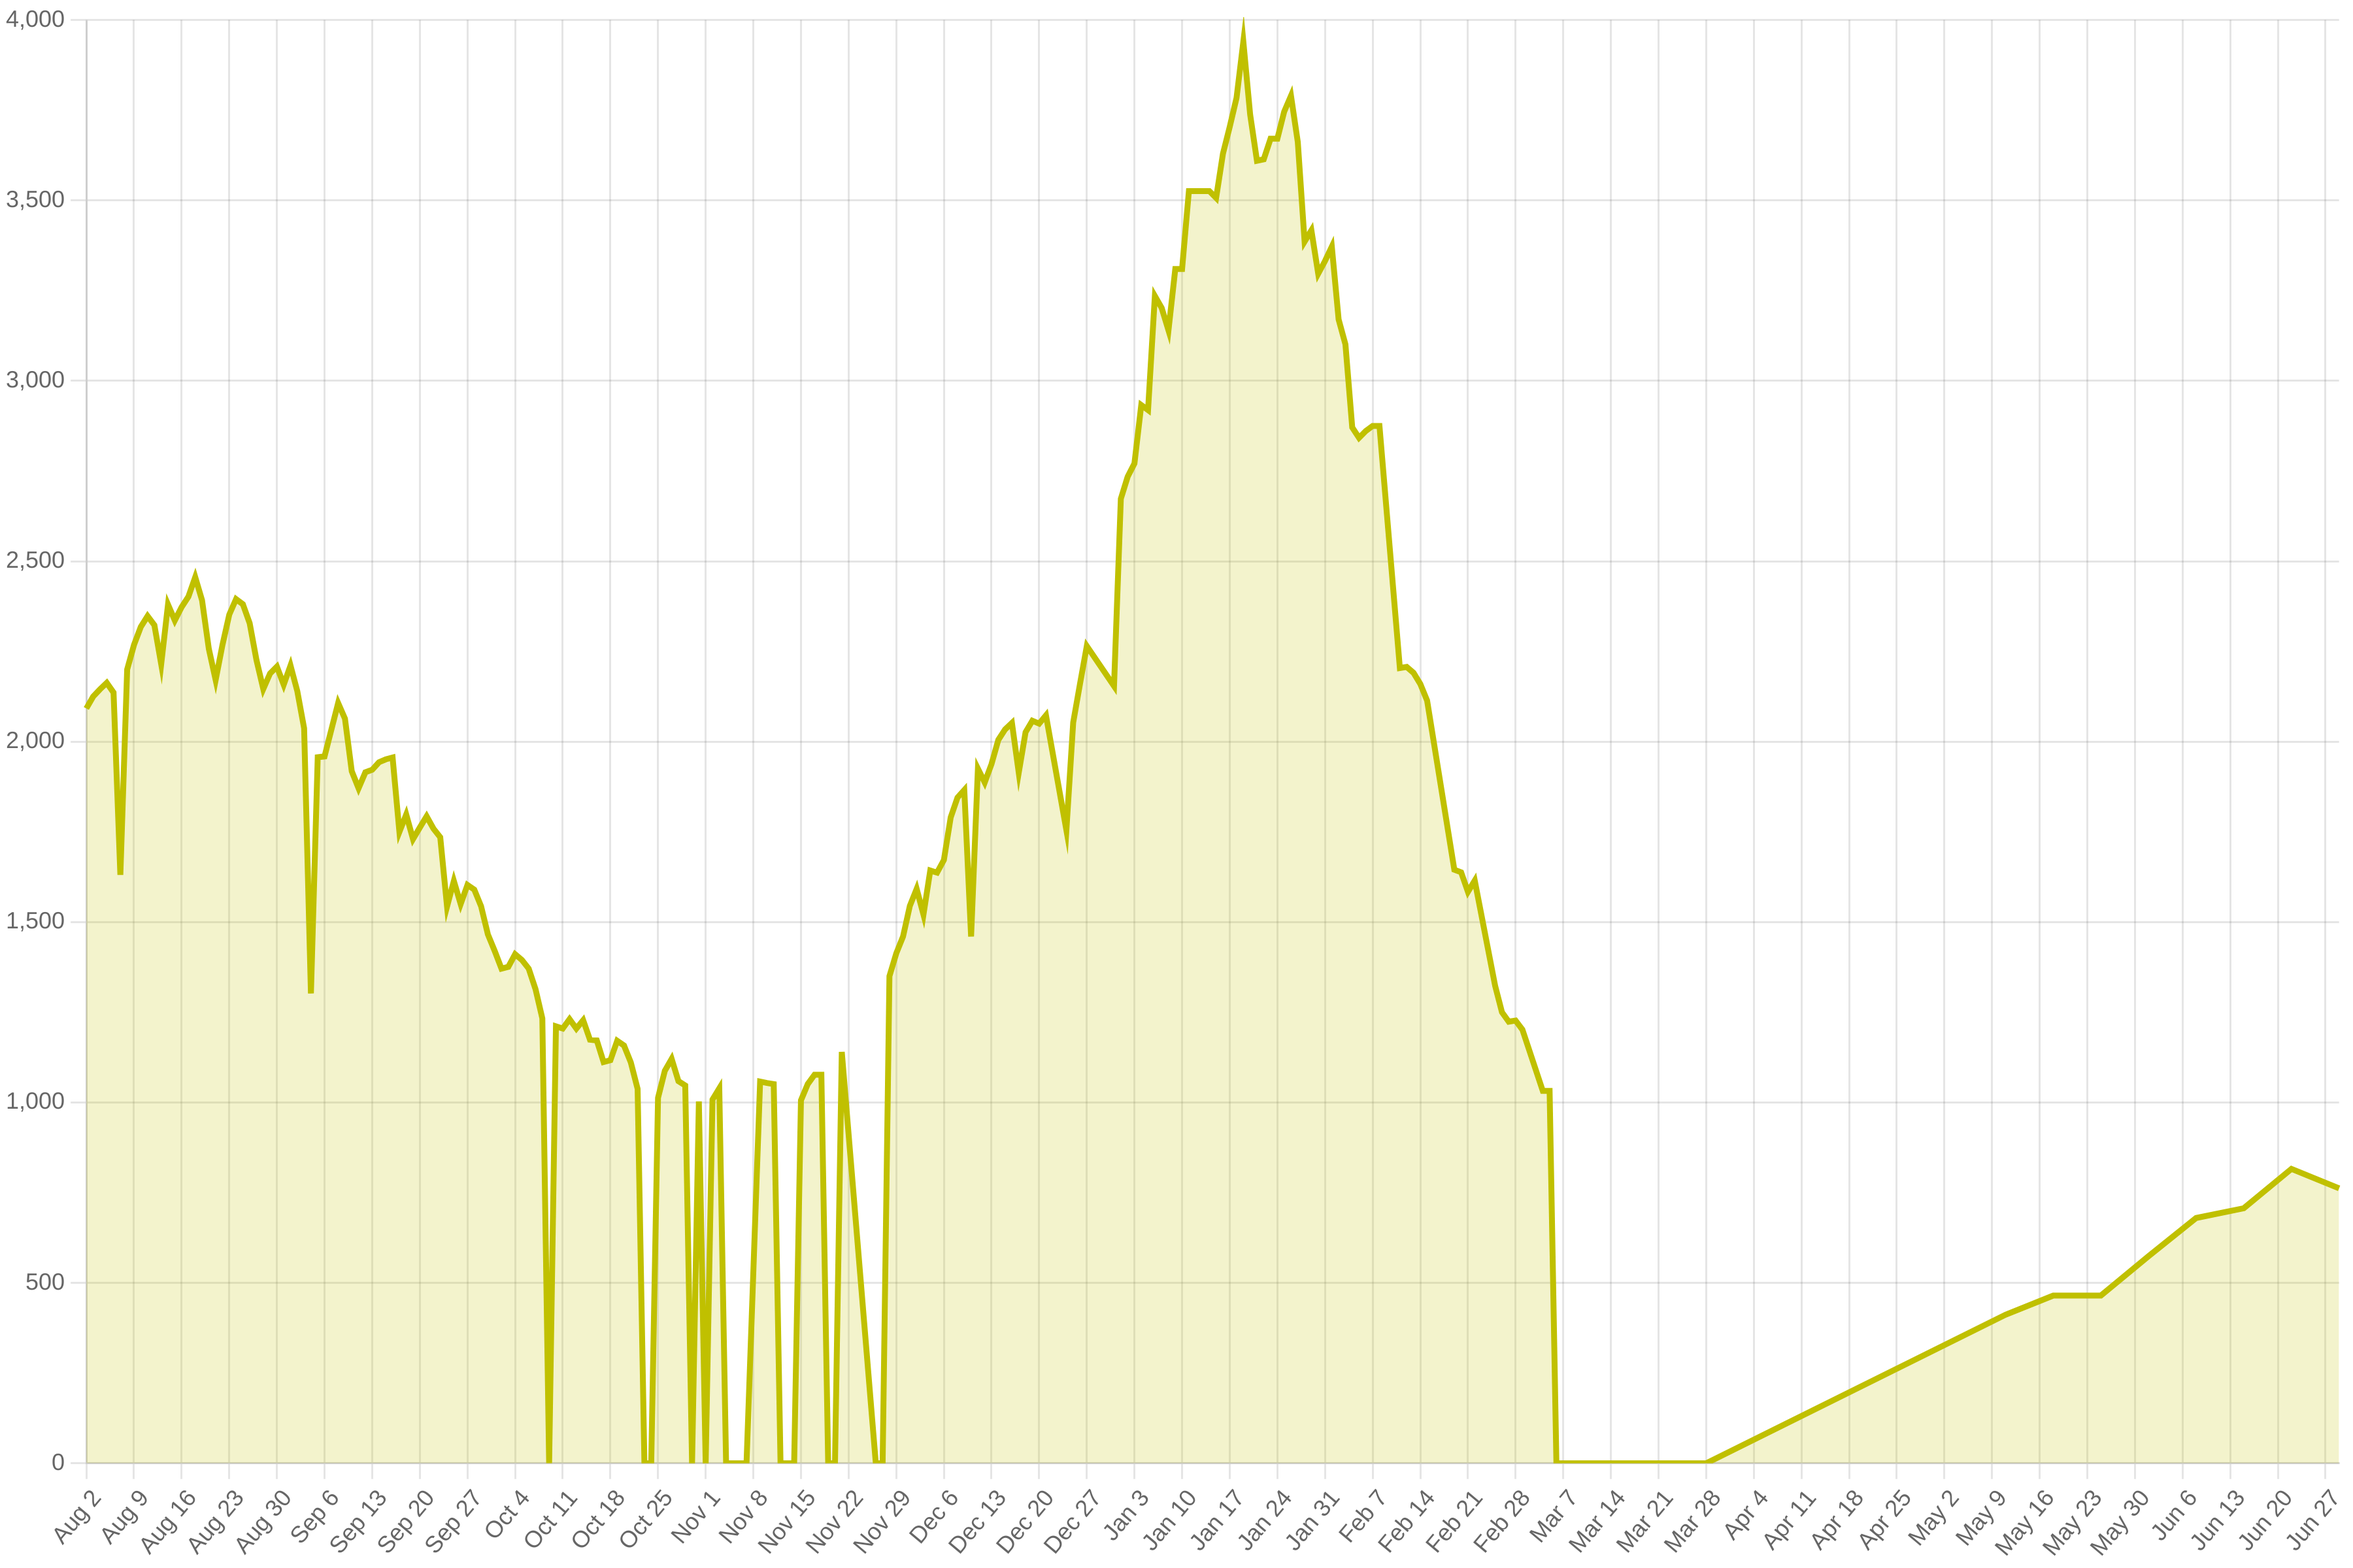
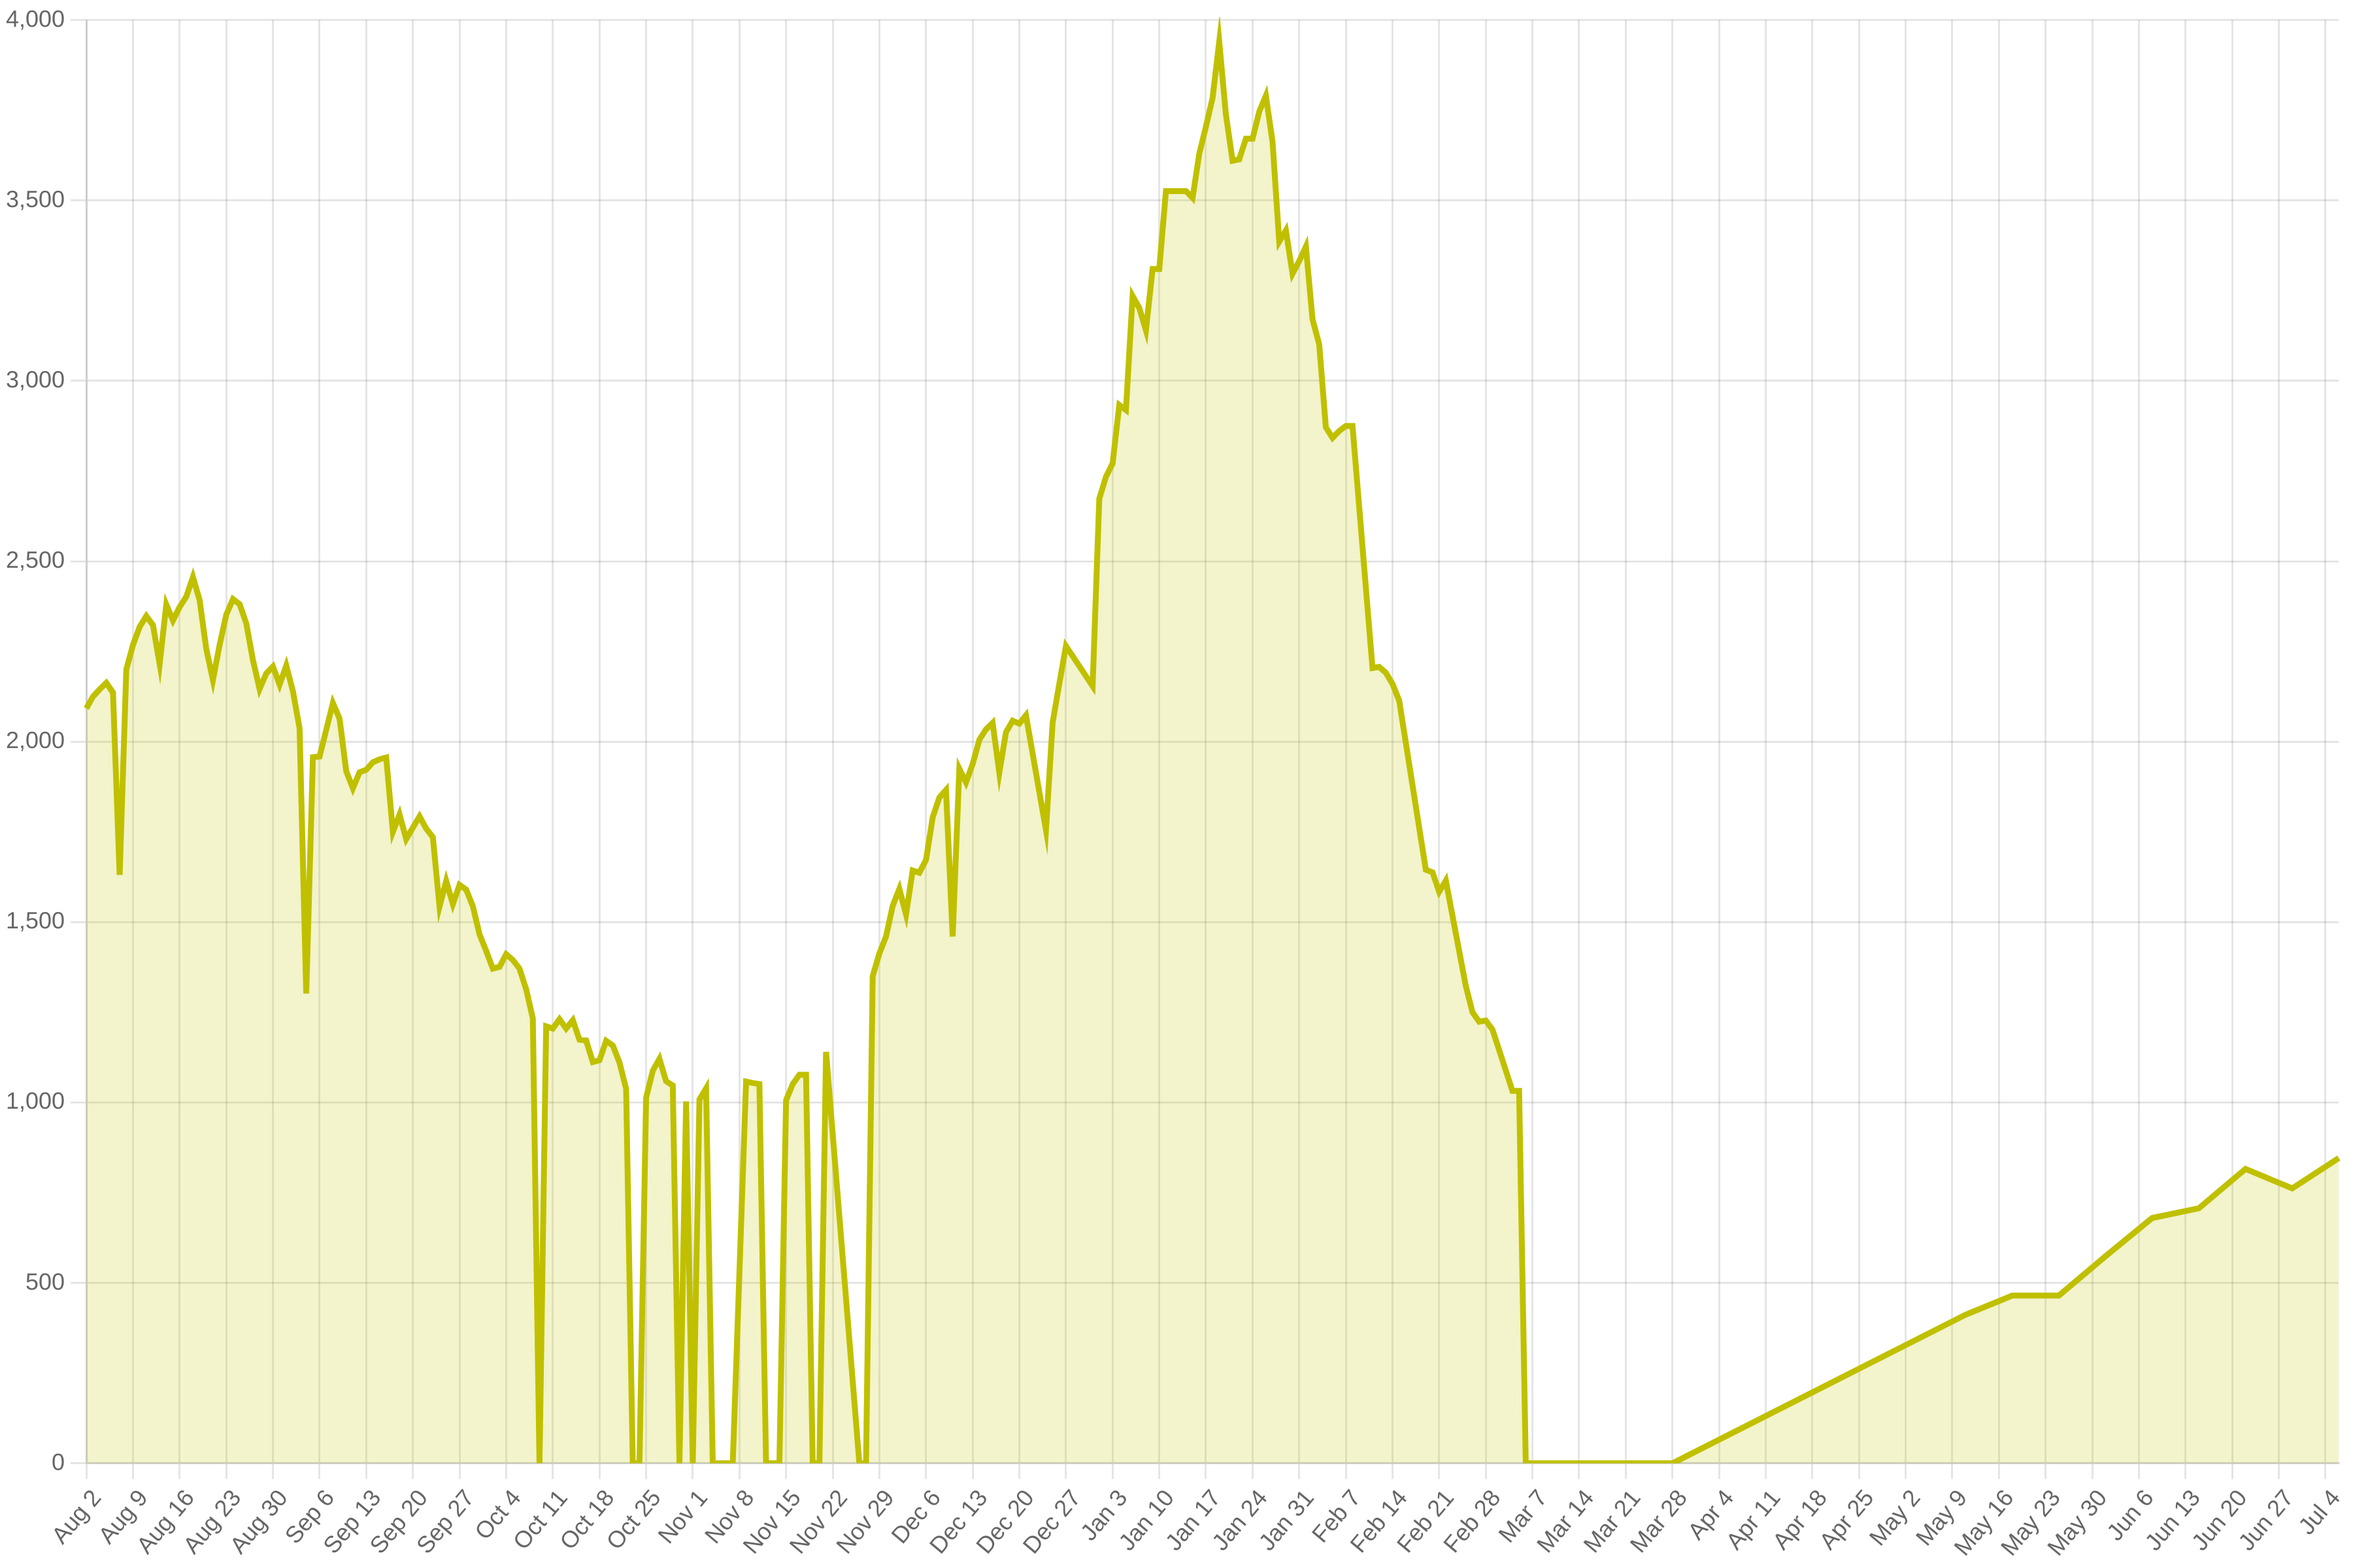
regular update

Changed region(s): [[0.0622, 0.0, 0.9956, 1.0], [0.0622, 0.0312, 0.1244, 0.4375], [0.9644, 0.9375, 0.9956, 0.9688]]

diff --git a/docs/index.html b/docs/index.html
@@ -43,10 +43,10 @@
     <main>
       <h1>Missouri COVID data</h1>
       <p>
-        The data on this page was updated <strong>Friday, July 1, 2022</strong>. For
+        The data on this page was updated <strong>Friday, July 8, 2022</strong>. For
         the values that are averages over 7 days, the start date is
-        <strong>Thursday, June 23, 2022</strong> and the end date is
-        <strong>Wednesday, June 29, 2022</strong>. The original data comes from the
+        <strong>Thursday, June 30, 2022</strong> and the end date is
+        <strong>Wednesday, July 6, 2022</strong>. The original data comes from the
         <a
           href="https://results.mo.gov/t/COVID19/views/WeeklyCOVIDMockup_16487370423730/WeeklyReport-Revised-v2?:embed=y&:showVizHome=no&:host_url=https%3A%2F%2Fresults.mo.gov%2F&:embed_code_version=3&:tabs=no&:toolbar=no&:showAppBanner=false&:display_spinner=no&:loadOrderID=0"
           >Missouri Department of Health and Senior Services</a
@@ -79,19 +79,19 @@
 
       <h2>New cases</h2>
       <p>
-        There have been <strong>12,174</strong> new cases in the
-        past 7 days, about <strong>1,739 per day</strong>.
+        There have been <strong>11,728</strong> new cases in the
+        past 7 days, about <strong>1,675 per day</strong>.
       </p>
       <img src="charts/totalPositive.png" />
 
       <h2>Outcomes</h2>
       <p>
-        There are currently 762 people hospitalized with
+        There are currently 846 people hospitalized with
         COVID-19.
       </p>
       <img src="charts/hospitalizations.png" />
 
-      <p>87 people are in intensive care.</p>
+      <p>96 people are in intensive care.</p>
       <img src="charts/icu.png" />
 
       <h2>Unavailable</h2>
